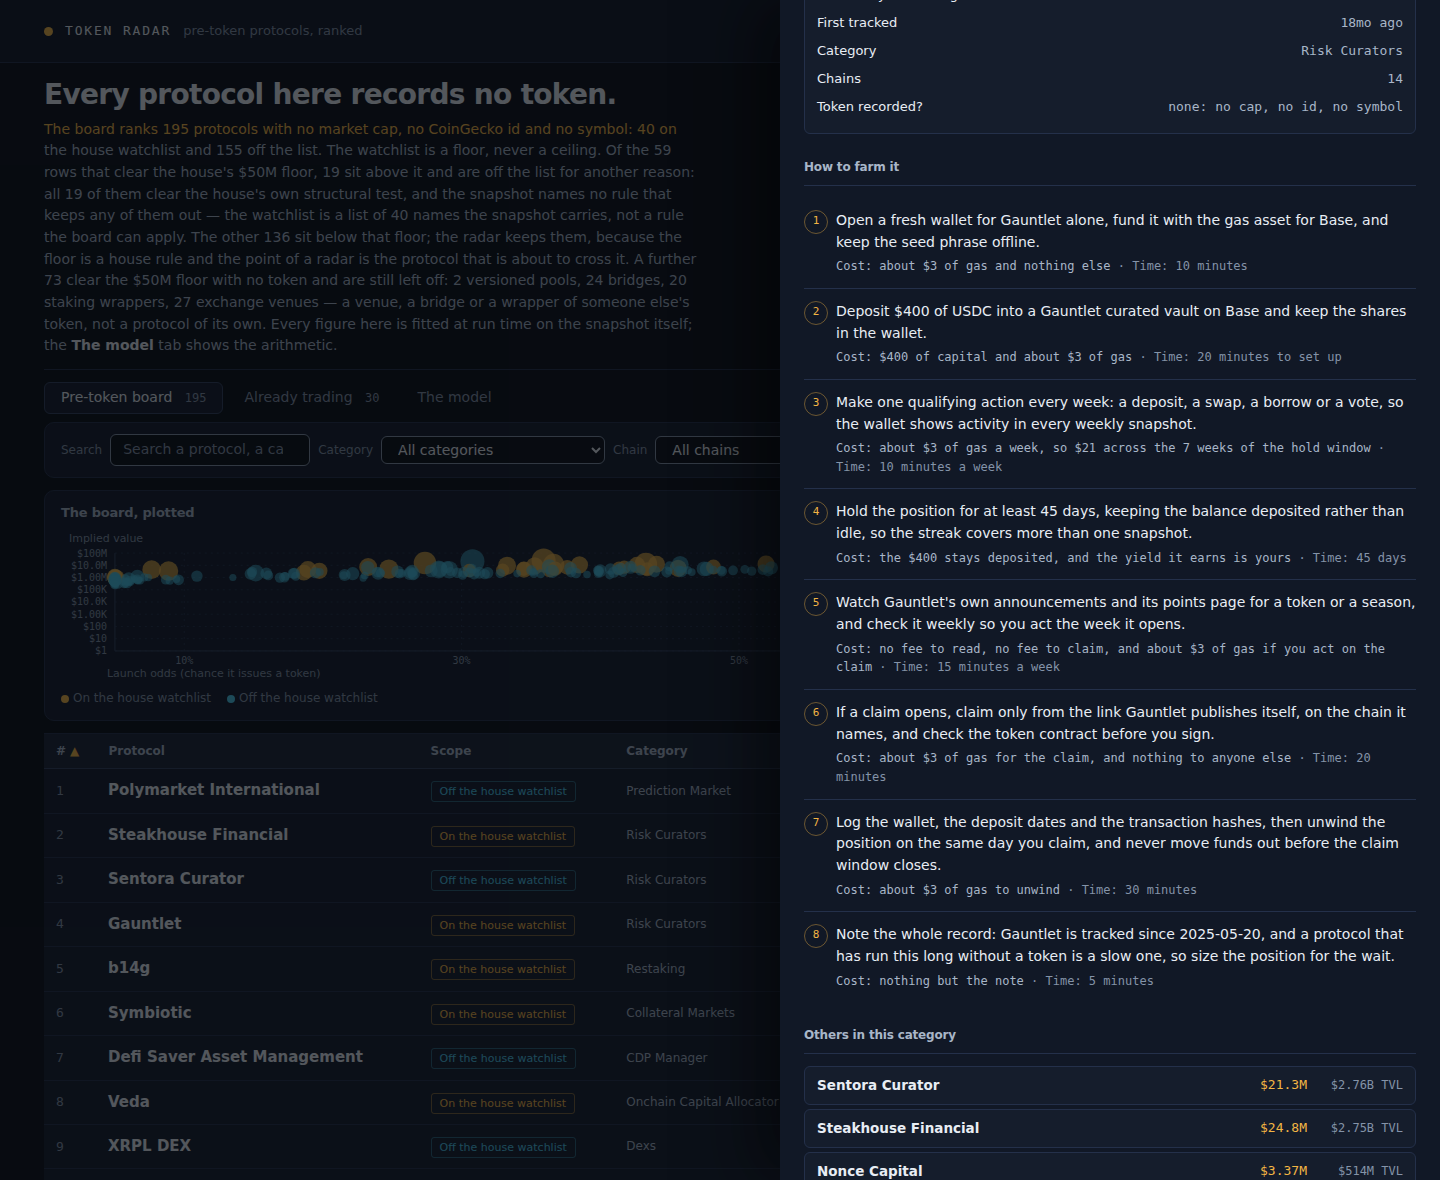
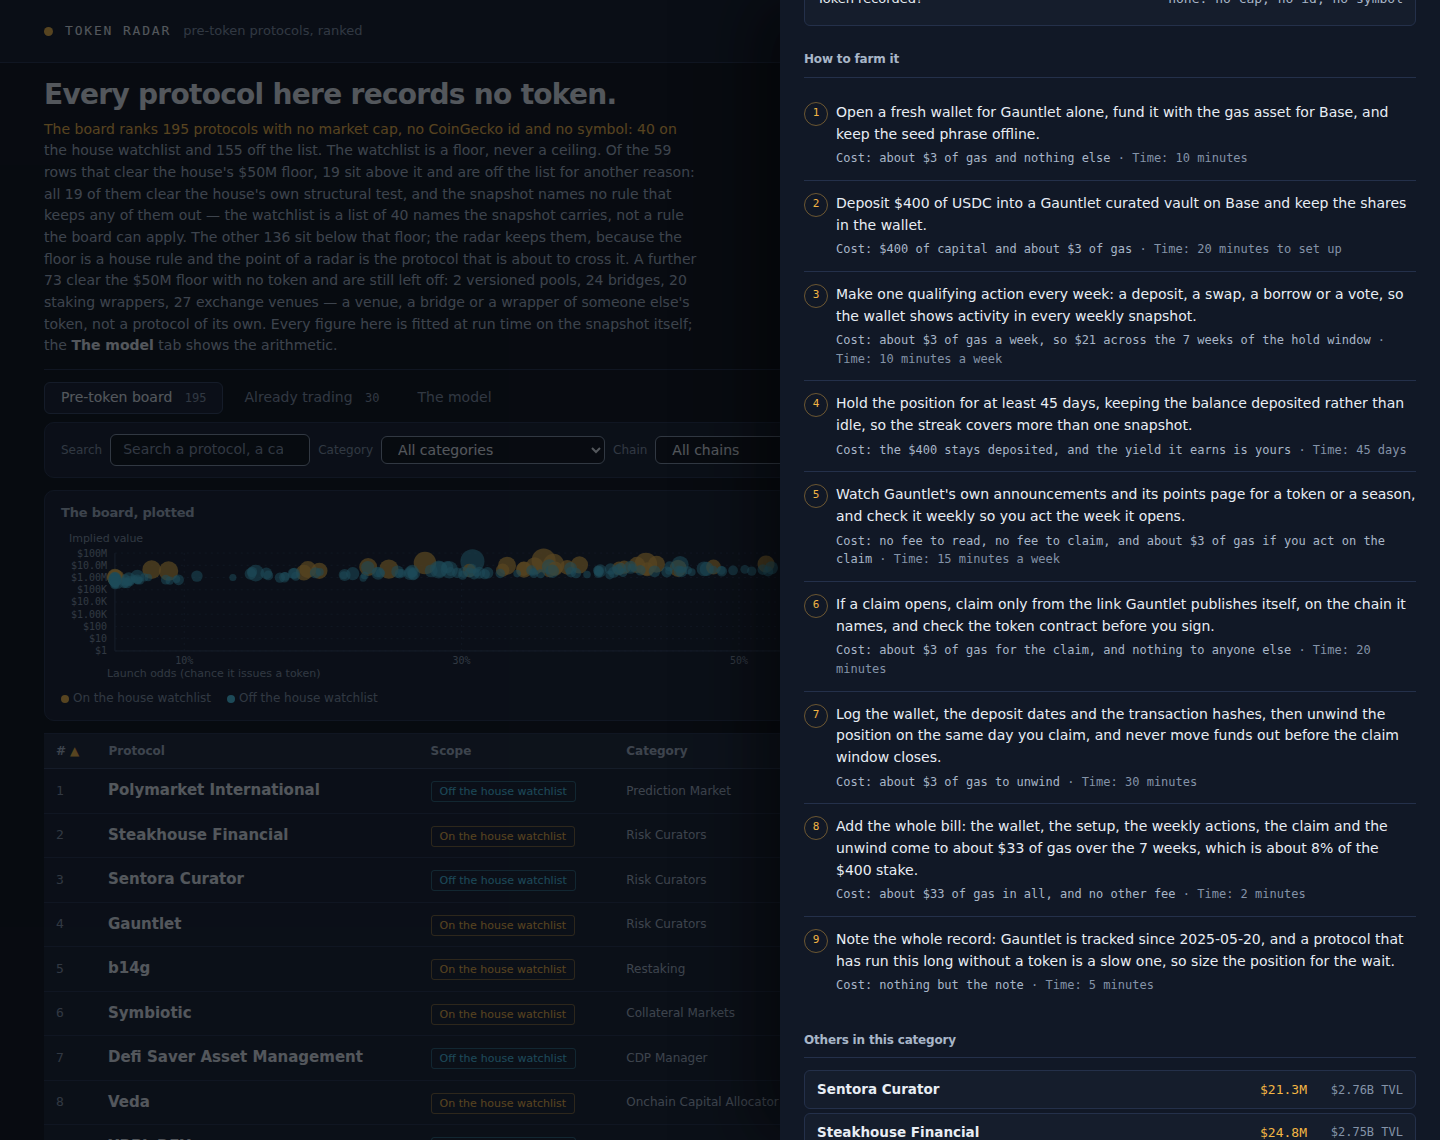
Size the farm position to carry the gas the plan spends
The capital and the gas were decided apart: the capital came from the
TVL band, the gas from the chain. A plan could therefore tell a farmer
to stake $50 and then spend $204 of gas on it -- 169 of the 195 rows
spent more than a quarter of the stake, 140 more than half, and 64 more
than the stake itself, the worst at 408%. The plan read as though the
position cost $50.

The stake is now the TVL ladder's floor, lifted until the plan's own
gas bill is a fifth of it. The gas bill is the five points the plan
spends at: the wallet, the setup, every weekly action, the claim and
the unwind. The worst share across the 195 rows falls from 408% to 20%,
and every capital stays a multiple of $50 so a reader can fund it.

The plan now also states its own bill in one line, so the reader can
check the position against the fees instead of adding five costs up by
hand.

Five checks, each proved to fail on a genuine pre-fix build -- the
previous commit's lib/model.ts rendered into a scratch directory and
checked by the new verify.mjs: the capital is the one its band and its
own gas bill give; the capital is at least the band asks for; the
capital is a multiple of $50; no plan spends more than a quarter of its
capital on gas; and every plan states its own bill and what share of
the stake it is.

diff --git a/lib/model.ts b/lib/model.ts
@@ -1494,13 +1494,36 @@ function chainOf(p: SnapshotProtocol): string {
   return p.chains.length > 0 ? p.chains[0]! : 'its main chain';
 }
 
-/** How much capital one farm position needs, from the protocol's own TVL: the bigger the book, the deeper the position. */
-function capitalFor(p: SnapshotProtocol): number {
+/**
+ * The TVL ladder: how deep a position the protocol's own book asks for. The bigger the book, the
+ * deeper the position -- this is the FLOOR of the capital, not the whole of it.
+ */
+function tvlBandFor(p: SnapshotProtocol): number {
   if (p.tvl_usd >= 1_000_000_000) return 400;
   if (p.tvl_usd >= 250_000_000) return 250;
   if (p.tvl_usd >= 100_000_000) return 150;
   if (p.tvl_usd >= 50_000_000) return 100;
   return 50;
+}
+
+/**
+ * The capital a farm position needs: the TVL ladder's floor, raised until the plan's OWN gas bill
+ * is a fifth of the stake.
+ *
+ * The two numbers used to be fixed apart -- the capital from the TVL band, the gas from the
+ * chain -- so a plan could tell a farmer to stake $50 and then spend $204 of gas on it: the gas
+ * was four times the stake, and the plan read as though the position cost $50. The stake now has
+ * to carry the gas the plan spends: the wallet, the setup, every weekly action, the claim and the
+ * unwind. A fifth is the line: the gas is a real cost of a position, and a position whose fees
+ * are a fifth of it is still a position, not a rounding error.
+ *
+ * The result stays a MULTIPLE OF FIFTY DOLLARS, so the number a reader sees is one they can fund,
+ * and the ladder keeps its shape: the TVL band is still the floor every row is lifted from.
+ */
+function capitalFor(p: SnapshotProtocol, gasTotal: number): number {
+  const floor = tvlBandFor(p);
+  const needed = Math.ceil((gasTotal * 5) / 50) * 50;
+  return Math.max(floor, needed);
 }
 
 /** How long to hold, from the protocol's age: a protocol that has run longer without a token needs a longer window. */
@@ -1666,21 +1689,24 @@ function actionFor(p: SnapshotProtocol, capital: number, chain: string): string 
 }
 
 /**
- * A protocol's farm plan: eight steps, each an action with a cost and a time. Every number in the plan
+ * A protocol's farm plan: nine steps, each an action with a cost and a time. Every number in the plan
  * comes from the protocol's own record (category, chains, TVL, age) and the snapshot's date, never from
  * a hand-written list of names.
  */
 export function farmSteps(p: SnapshotProtocol, age: number | null): FarmStep[] {
   const chain = chainOf(p);
-  const capital = capitalFor(p);
   const hold = holdDaysFor(age);
   // The gas is the gas OF THE CHAIN THE PLAN NAMES, so the two can never disagree.
   const gas = gasOnChain(chain);
+  // The weekly gas is priced for the whole hold window, in whole weeks.
+  const weeks = Math.ceil(hold / 7);
+  // What the plan SPENDS on gas, over the whole plan: the wallet, the setup, every weekly action,
+  // the claim and the unwind. This is the number the capital has to carry.
+  const gasTotal = gas * (weeks + 4);
+  const capital = capitalFor(p, gasTotal);
   const action = actionFor(p, capital, chain);
   const dated = p.listed_at !== null;
   const tracked = dated ? `since ${p.listed_at}` : 'on an unknown date';
-  // The weekly gas is priced for the whole hold window, in whole weeks.
-  const weeks = Math.ceil(hold / 7);
   // Whether the position earns the protocol's own yield: a deposit into a vault, a market or a
   // pool does, and a swap, a purchase or a bridged position does not.
   const earns = positionEarns(p.category ?? null);
@@ -1734,6 +1760,15 @@ export function farmSteps(p: SnapshotProtocol, age: number | null): FarmStep[] {
       text: `Log the wallet, the deposit dates and the transaction hashes, then unwind the position on the same day you claim, and never move funds out before the claim window closes.`,
       cost: `about $${gas} of gas to unwind`,
       time: '30 minutes',
+    },
+    {
+      // The whole bill, in one line, so the reader can check the position against the gas it
+      // spends instead of adding five separate costs up in their head. The plan spends gas at five
+      // points -- the wallet, the setup, every weekly action, the claim and the unwind -- and the
+      // capital above is sized to carry that bill.
+      text: `Add the whole bill: the wallet, the setup, the weekly actions, the claim and the unwind come to about $${gasTotal} of gas over the ${weeks} weeks, which is about ${Math.round((gasTotal / capital) * 100)}% of the $${capital} stake.`,
+      cost: `about $${gasTotal} of gas in all, and no other fee`,
+      time: '2 minutes',
     },
     {
       // A protocol with no first-tracked date has no age, so the plan must not claim it has run

diff --git a/MODEL.md b/MODEL.md
@@ -284,13 +284,18 @@ code.
 
 ## 7. The farm plans
 
-Every row carries eight steps, each an action with a cost and a time, derived from the protocol's own
+Every row carries nine steps, each an action with a cost and a time, derived from the protocol's own
 record and never from a hand-written list of names:
 
 * **the action** follows from the category (a curated vault is deposited into, a lending market is
   supplied to, a DEX is provided liquidity to, and so on);
-* **the capital** follows from the TVL ($400 at $1B+, $250 at $250M+, $150 at $100M+, $100 at the
-  $50M floor, $50 below it);
+* **the capital** starts from the TVL ($400 at $1B+, $250 at $250M+, $150 at $100M+, $100 at the
+  $50M floor, $50 below it) and is then **lifted until the plan's own gas bill is a fifth of the
+  stake**. The two numbers used to be decided apart — the capital from the TVL band, the gas from
+  the chain — so a plan could tell a farmer to stake $50 and then spend $204 of gas on it, with the
+  gas at four times the stake. The stake now has to carry the gas the plan spends: the wallet, the
+  setup, every weekly action, the claim and the unwind. It is still a multiple of $50, so the
+  number a reader sees is one they can fund;
 * **the gas** follows from the chain (about $12 on Ethereum, $6 on Bitcoin, $1 on Solana, $3
   elsewhere);
 * **the hold** follows from the age (90 days under 180, 60 under 365, 45 under 730, then 30). A
@@ -302,6 +307,10 @@ record and never from a hand-written list of names:
   90-day hold is budgeted for 13 weeks and a 30-day hold for 5. Before this was priced from the
   window, every one of the 195 rows budgeted four weeks of gas and then held for five to thirteen —
   an understatement of more than a factor of three on the longest holds.
+* **the whole bill** is stated in one line, so the reader can check the position against the fees
+  instead of adding five costs up in their head. The plan spends gas at five points, and step 8
+  says what that comes to and what share of the stake it is. Across the 195 rows the share runs
+  from 4% to 20%, and no row spends more than a quarter of its stake on gas.
 * **what the position earns** follows from the action, not from the category's name. A deposit
   into a vault, a lending market, a pool or a strategy earns the protocol's own yield, and the
   plan says so. A swap, a purchase, a bridge, a collateral lock, a margin position, a wrapper or
@@ -315,8 +324,8 @@ record and never from a hand-written list of names:
   other rows are described as slow ones. A protocol with no first-tracked date is told that the
   house cannot tell how long it has run, and is not told anything it cannot support.
 
-The plan is generated **once**, by `lib/model.ts`, and travels with the row: the eight steps go into
-`board.json` and into the dataset the page reads. The detail view shows those same eight steps, so
+The plan is generated **once**, by `lib/model.ts`, and travels with the row: the nine steps go into
+`board.json` and into the dataset the page reads. The detail view shows those same nine steps, so
 the plan a reader reads on the page is the plan the board hands in — there is no second
 implementation that could drift.
 
